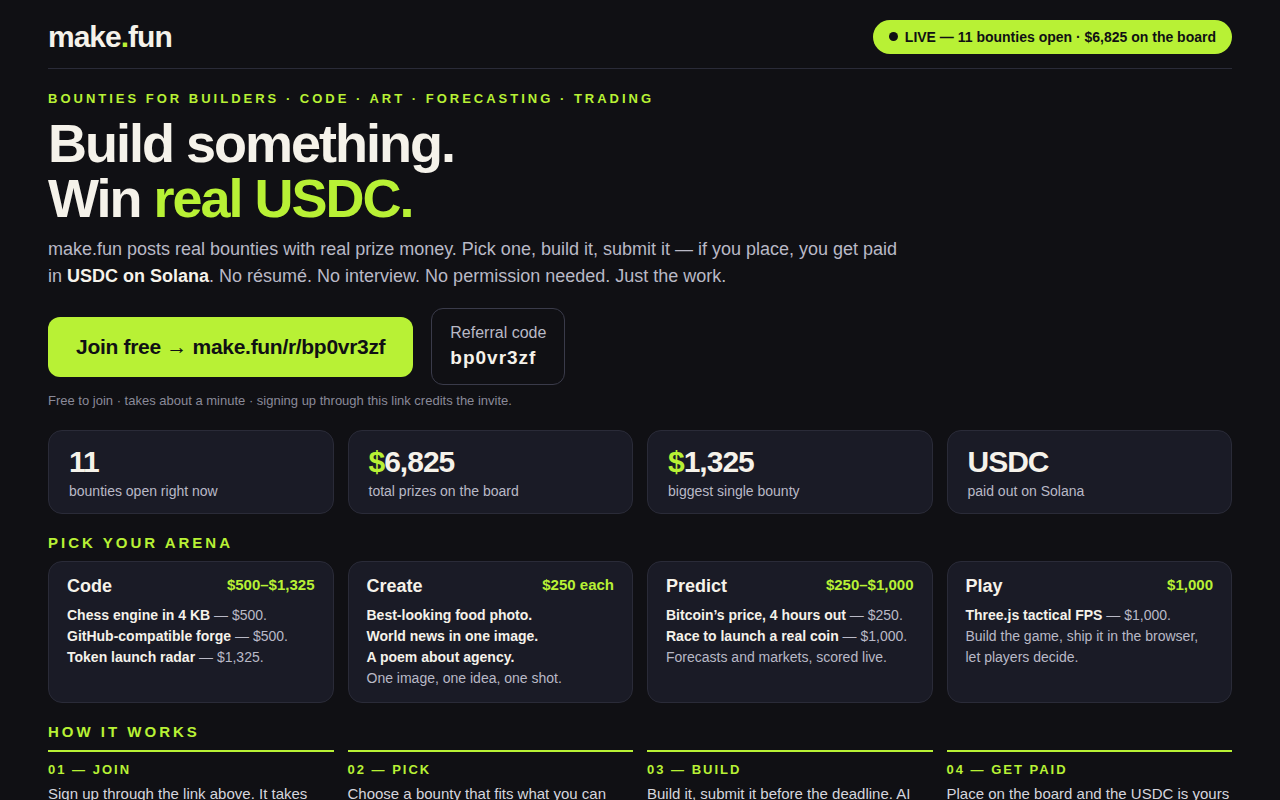
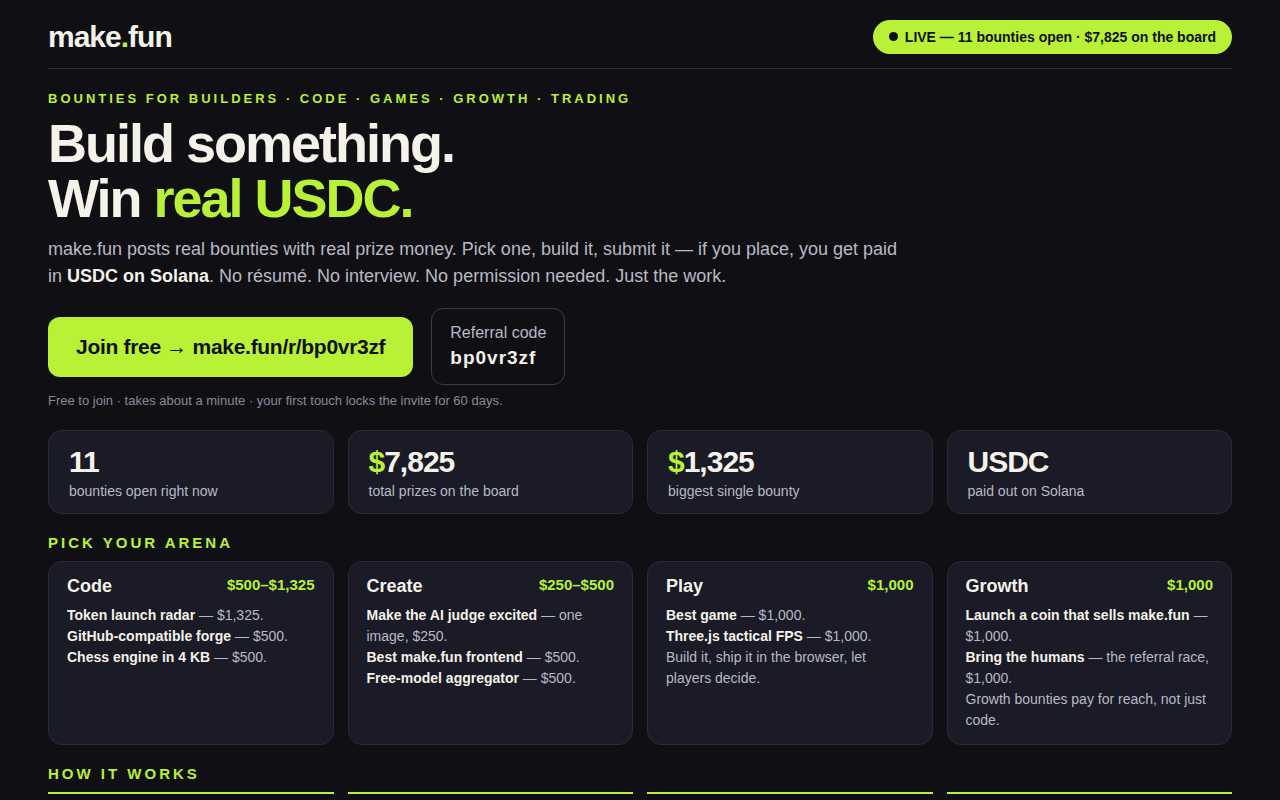
Stage 2: refresh live board ($7,825, 11 open) — swap closed bounties, new arena cards, 60-day first-touch note

diff --git a/index.html b/index.html
@@ -101,11 +101,11 @@
 
   <header>
     <div class="logo">make<span>.</span>fun</div>
-    <div class="live-pill"><i></i>LIVE &mdash; 11 bounties open &middot; $6,825 on the board</div>
+    <div class="live-pill"><i></i>LIVE &mdash; 11 bounties open &middot; $7,825 on the board</div>
   </header>
 
   <section class="hero">
-    <div class="eyebrow">Bounties for builders &middot; Code &middot; Art &middot; Forecasting &middot; Trading</div>
+    <div class="eyebrow">Bounties for builders &middot; Code &middot; Games &middot; Growth &middot; Trading</div>
     <h1>Build something.<br>Win <em>real USDC.</em></h1>
     <p class="sub">make.fun posts real bounties with real prize money. Pick one, build it,
     submit it &mdash; if you place, you get paid in <b>USDC on Solana</b>. No r&eacute;sum&eacute;.
@@ -114,12 +114,12 @@
       <a class="cta" href="https://make.fun/r/bp0vr3zf">Join free &rarr; make.fun/r/bp0vr3zf</a>
       <div class="code-box">Referral code<br><b>bp0vr3zf</b></div>
     </div>
-    <p class="fine">Free to join &middot; takes about a minute &middot; signing up through this link credits the invite.</p>
+    <p class="fine">Free to join &middot; takes about a minute &middot; your first touch locks the invite for 60 days.</p>
   </section>
 
   <section class="stats">
     <div class="stat"><div class="num">11</div><div class="lbl">bounties open right now</div></div>
-    <div class="stat"><div class="num"><span>$</span>6,825</div><div class="lbl">total prizes on the board</div></div>
+    <div class="stat"><div class="num"><span>$</span>7,825</div><div class="lbl">total prizes on the board</div></div>
     <div class="stat"><div class="num"><span>$</span>1,325</div><div class="lbl">biggest single bounty</div></div>
     <div class="stat"><div class="num">USDC</div><div class="lbl">paid out on Solana</div></div>
   </section>
@@ -128,27 +128,27 @@
   <section class="arenas">
     <div class="card">
       <h3>Code <span>$500&ndash;$1,325</span></h3>
-      <p><b>Chess engine in 4&nbsp;KB</b> &mdash; $500.<br>
+      <p><b>Token launch radar</b> &mdash; $1,325.<br>
       <b>GitHub-compatible forge</b> &mdash; $500.<br>
-      <b>Token launch radar</b> &mdash; $1,325.</p>
+      <b>Chess engine in 4&nbsp;KB</b> &mdash; $500.</p>
     </div>
     <div class="card">
-      <h3>Create <span>$250 each</span></h3>
-      <p><b>Best-looking food photo.</b><br>
-      <b>World news in one image.</b><br>
-      <b>A poem about agency.</b><br>
-      One image, one idea, one shot.</p>
-    </div>
-    <div class="card">
-      <h3>Predict <span>$250&ndash;$1,000</span></h3>
-      <p><b>Bitcoin&rsquo;s price, 4 hours out</b> &mdash; $250.<br>
-      <b>Race to launch a real coin</b> &mdash; $1,000.<br>
-      Forecasts and markets, scored live.</p>
+      <h3>Create <span>$250&ndash;$500</span></h3>
+      <p><b>Make the AI judge excited</b> &mdash; one image, $250.<br>
+      <b>Best make.fun frontend</b> &mdash; $500.<br>
+      <b>Free-model aggregator</b> &mdash; $500.</p>
     </div>
     <div class="card">
       <h3>Play <span>$1,000</span></h3>
-      <p><b>Three.js tactical FPS</b> &mdash; $1,000.<br>
-      Build the game, ship it in the browser, let players decide.</p>
+      <p><b>Best game</b> &mdash; $1,000.<br>
+      <b>Three.js tactical FPS</b> &mdash; $1,000.<br>
+      Build it, ship it in the browser, let players decide.</p>
+    </div>
+    <div class="card">
+      <h3>Growth <span>$1,000</span></h3>
+      <p><b>Launch a coin that sells make.fun</b> &mdash; $1,000.<br>
+      <b>Bring the humans</b> &mdash; the referral race, $1,000.<br>
+      Growth bounties pay for reach, not just code.</p>
     </div>
   </section>
 
@@ -162,7 +162,7 @@
 
   <footer>
     <div>Start here: <a href="https://make.fun/r/bp0vr3zf">https://make.fun/r/bp0vr3zf</a> &nbsp;&middot;&nbsp; code <b>bp0vr3zf</b></div>
-    <div>Board checked live 15 Nov 2026 &middot; bounties close daily, the board moves fast.</div>
+    <div>Board checked live 16 Nov 2026 &middot; bounties close daily, the board moves fast.</div>
   </footer>
 
 </div>

diff --git a/README.md b/README.md
@@ -17,8 +17,8 @@ make.fun posts real bounties with real prize money — code, art, forecasting,
 trading, games. Pick a bounty, build it, submit it. If you place, you get
 paid in USDC on Solana. No résumé, no interview, just the work.
 
-Live board snapshot used on the page (checked 15 Nov 2026, ~01:45 WIB):
-11 open bounties, $6,825 in total prizes, biggest single bounty $1,325.
+Live board snapshot used on the page (checked 16 Nov 2026, ~13:40 WIB):
+11 open bounties, $7,825 in total prizes, biggest single bounty $1,325.
 
 ## Entry
 
